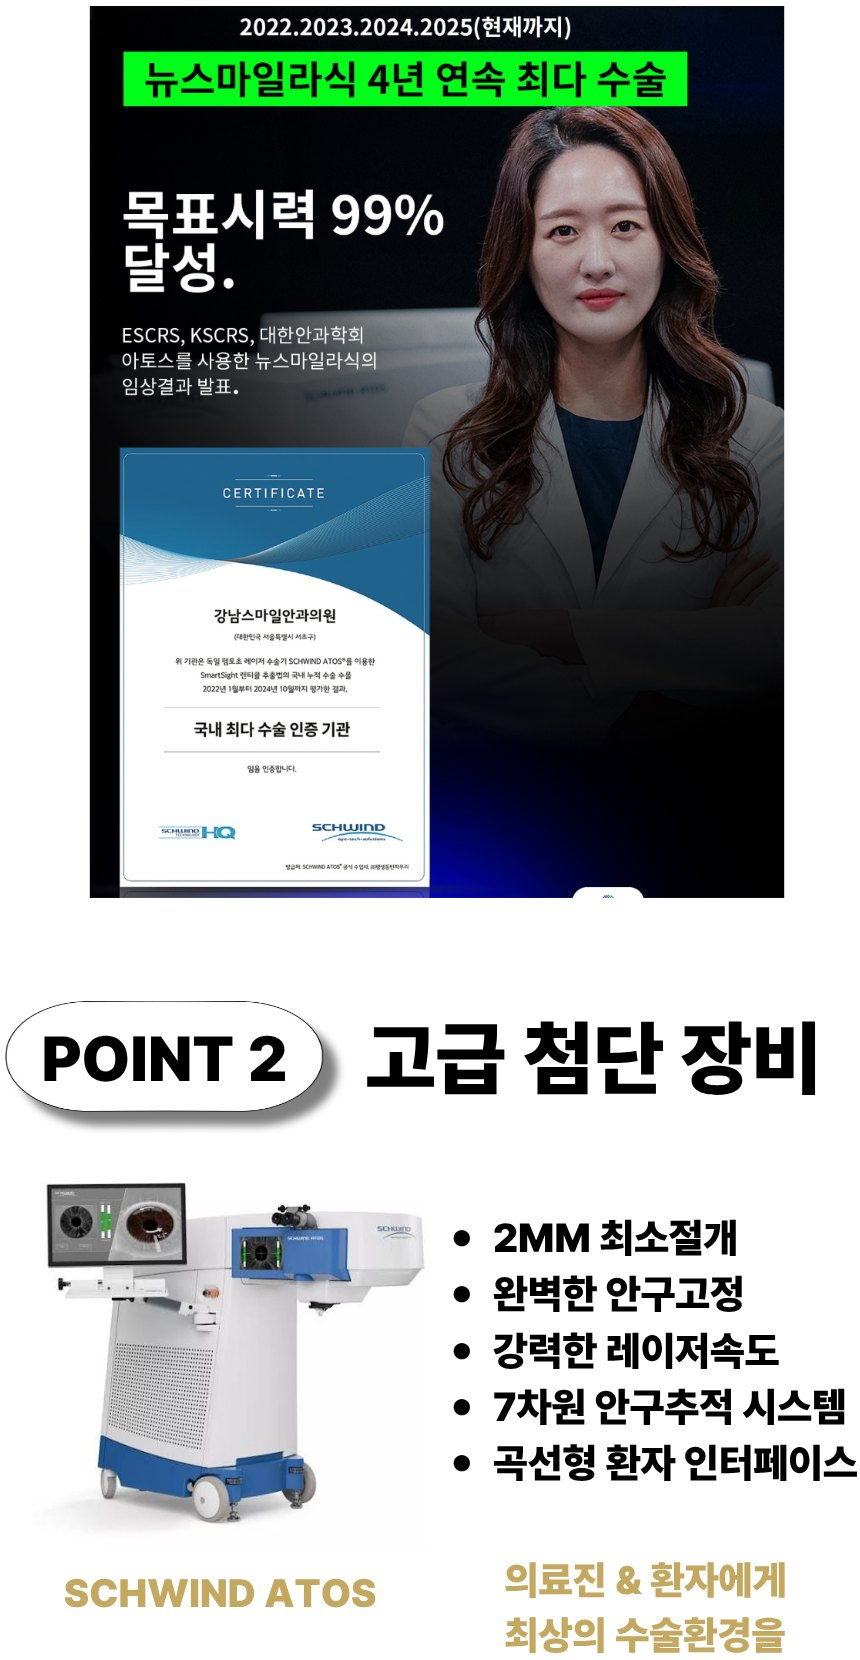
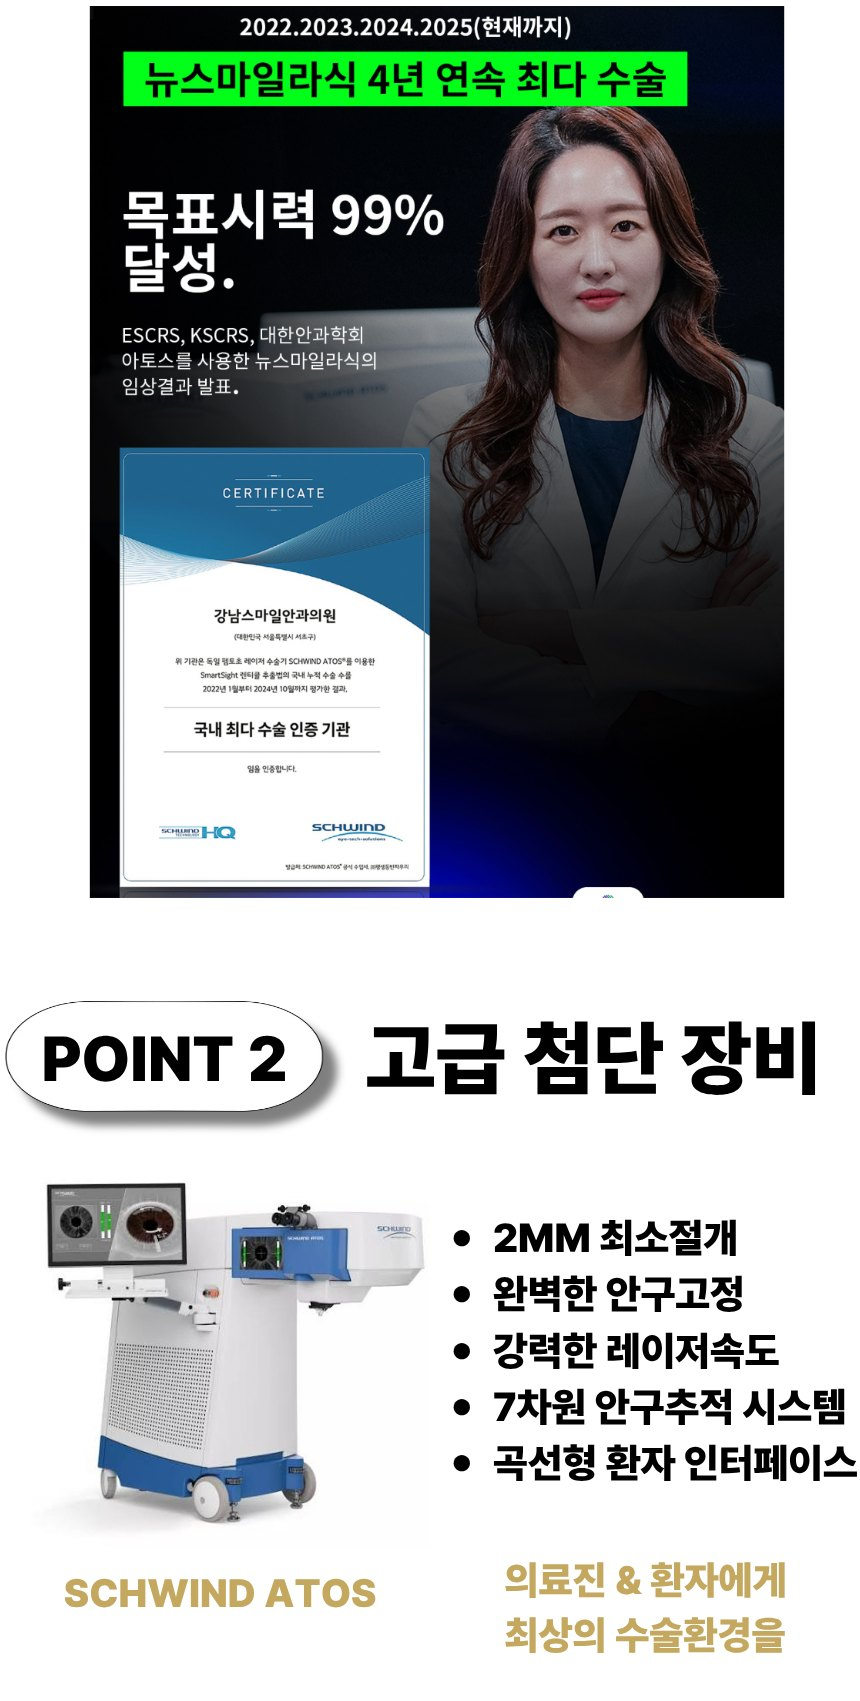
smile : 소재 교체 · 배너 작은글씨 재작성 · POINT 3 간격
- 본문 소재를 (28).png 로 교체. 눈 아래 잘못 들어간 까만 선(y3998~4001)이
  지워진 판본이고, 그 줄 말고는 기존과 픽셀이 같다.
- 빨간 특별혜택 배너 2곳(위·아래)의 작은 글씨가 캡처를 거치며 뭉개져
  읽히지 않았다. 바로 위 빨강 줄을 복사해 덮고 같은 자리·같은 크기(16pt)·
  흰색으로 다시 그렸다. 실측 중심 x 115/324/535/752 를 그대로 썼다.
- POINT 1·2 앞 여백이 97·103px 인데 POINT 3 앞만 22px 이라 붙어 보였다.
  103px 로 맞췄다.
- 히어로 교차 페이드 22s → 17s.
- 푸터의 "본 페이지는 ... 광고 페이지입니다" 한 줄 제거.

diff --git a/smile/index.html b/smile/index.html
@@ -42,7 +42,7 @@
 
   /* ── 히어로 : 흐린 시야가 천천히 선명해진다 ───────────────
      e3(가장 흐림)를 바닥에 깔고 e2·e1 을 그 위에서 교차 페이드한다.
-     22초 한 바퀴, 한 번 바뀌는 데 3초 이상 — 깜박임이 아니라
+     17초 한 바퀴, 한 번 바뀌는 데 2.5초 남짓 — 깜박임이 아니라
      "서서히 초점이 잡히는" 속도다. 선명한 상태와 흐린 상태를
      각각 몇 초씩 머무르게 해서 눈이 따라가느라 피로해지지 않게 했다. */
   .hero{position:relative;overflow:hidden;background:#dfe6ec}
@@ -52,8 +52,8 @@
                       object-fit:cover;opacity:0;will-change:opacity}
   @keyframes seeMid  {0%,14%{opacity:0} 30%,74%{opacity:1} 90%,100%{opacity:0}}
   @keyframes seeClear{0%,26%{opacity:0} 44%,60%{opacity:1} 74%,100%{opacity:0}}
-  .eyes .l2{animation:seeMid   22s ease-in-out infinite}
-  .eyes .l1{animation:seeClear 22s ease-in-out infinite}
+  .eyes .l2{animation:seeMid   17s ease-in-out infinite}
+  .eyes .l1{animation:seeClear 17s ease-in-out infinite}
 
   /* 글자가 놓이는 위쪽만 하얗게 눌러 준다.
      길게 덮으면 시력표까지 흐려져 초점이 잡히는 게 안 보인다.
@@ -125,8 +125,8 @@
     <img src="/smile/img/s1.jpg" width="860" height="1690" alt="하루가 아닌 단 5분, 흐릿한 세상과 작별하세요 — 뉴 스마일라식 할인 이벤트">
     <img src="/smile/img/s2.jpg" width="860" height="1500" alt="본 예약링크 특별혜택 : 70여가지 정밀검사 지원 · 우대가 최대적용 · 당일수술 추가할인 · ATOS 정품 인증 카드" loading="lazy">
     <img src="/smile/img/s3.jpg" width="860" height="1500" alt="5세대 시력교정술 차세대 스마일라식 — 단 2mm 각막 미세절개" loading="lazy">
-    <img src="/smile/img/s4.jpg" width="860" height="1660" alt="POINT 1 검증된 의료진 · POINT 2 고급 첨단 장비 SCHWIND ATOS" loading="lazy">
-    <img src="/smile/img/t1.jpg" width="860" height="1690" alt="POINT 3 목표 시력 달성 — 근시교정 98%, 난시교정 99% · 실제 리뷰" loading="lazy">
+    <img src="/smile/img/s4.jpg" width="860" height="1701" alt="POINT 1 검증된 의료진 · POINT 2 고급 첨단 장비 SCHWIND ATOS" loading="lazy">
+    <img src="/smile/img/t1.jpg" width="860" height="1730" alt="POINT 3 목표 시력 달성 — 근시교정 98%, 난시교정 99% · 실제 리뷰" loading="lazy">
     <img src="/smile/img/t2.jpg" width="860" height="830" alt="본 예약링크 특별혜택 4가지" loading="lazy">
   </div>
 
@@ -142,7 +142,6 @@
 
   <footer>
     <b>강남스마일안과</b>
-    <p>본 페이지는 강남스마일안과 시력교정 상담·예약 접수를 위한 광고 페이지입니다.</p>
     <p>수술 방법과 결과는 개인의 눈 상태에 따라 다를 수 있으며,
        모든 사람에게 동일하게 적용되지 않습니다. 정확한 사항은 정밀검사와
        전문의 상담을 통해 확인하시기 바랍니다.</p>
